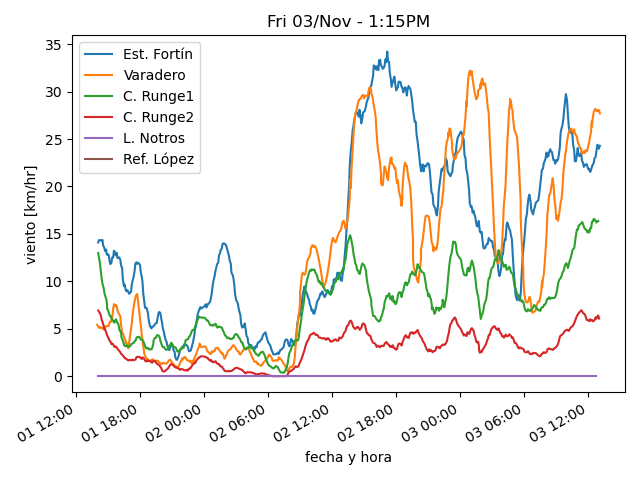
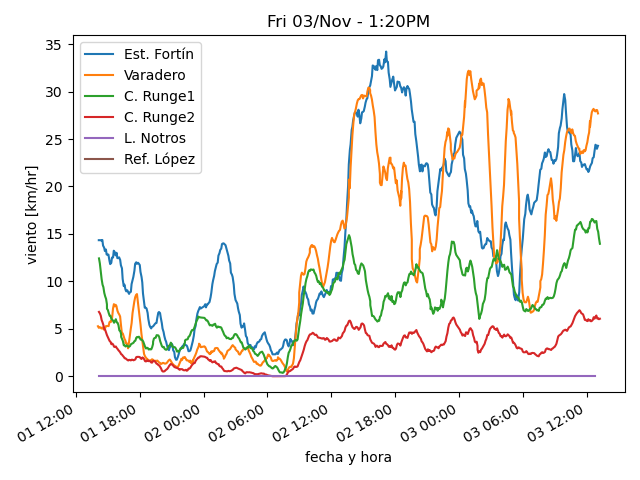
actualiza datos

diff --git a/estaciones/estacion3.html b/estaciones/estacion3.html
@@ -18,32 +18,32 @@
     </tr>
     <tr>
      <td class="stats_data">
-      12:54PM
+      1:14PM
      </td>
     </tr>
     <tr>
      <td class="stats_data">
-      10.9⁰C
+      11.9⁰C
      </td>
     </tr>
     <tr>
      <td class="stats_data">
-      2.9⁰C
+      3.9⁰C
      </td>
     </tr>
     <tr>
      <td class="stats_data">
-      57.7%
+      58.0%
      </td>
     </tr>
     <tr>
      <td class="stats_data">
-      1010.43hPa
+      1010.33hPa
      </td>
     </tr>
     <tr>
      <td class="stats_data">
-      10.0/13.9 km/hr NW
+      7.6/10.7 km/hr NW
      </td>
     </tr>
     <tr>
@@ -58,7 +58,7 @@
     </tr>
     <tr>
      <td class="stats_data">
-      820.3 W/m²
+      819.4 W/m²
      </td>
     </tr>
    </tbody>

diff --git a/estaciones/estacion4.html b/estaciones/estacion4.html
@@ -18,22 +18,22 @@
     </tr>
     <tr>
      <td class="stats_data">
-      12:59PM
+      1:14PM
      </td>
     </tr>
     <tr>
      <td class="stats_data">
-      12.9⁰C
+      13.6⁰C
      </td>
     </tr>
     <tr>
      <td class="stats_data">
-      3.4⁰C
+      3.9⁰C
      </td>
     </tr>
     <tr>
      <td class="stats_data">
-      52.4%
+      51.8%
      </td>
     </tr>
     <tr>
@@ -43,7 +43,7 @@
     </tr>
     <tr>
      <td class="stats_data">
-      2.9/4.6 km/hr SSW
+      3.4/5.7 km/hr SSW
      </td>
     </tr>
     <tr>
@@ -58,7 +58,7 @@
     </tr>
     <tr>
      <td class="stats_data">
-      850.6 W/m²
+      836.0 W/m²
      </td>
     </tr>
    </tbody>
